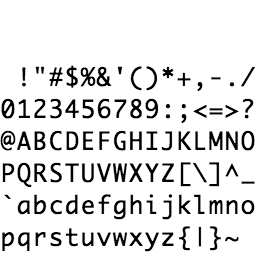
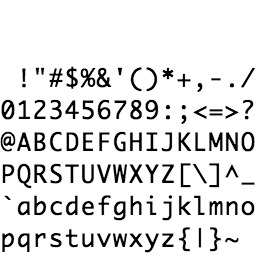
update chars.png(white bordered)

diff --git a/images/chars.html b/images/chars.html
@@ -2,13 +2,13 @@
 onload=function(){
   canvas=document.createElement('canvas');
   document.body.innerHTML='';
-  [{w:16,h:32,font:24,wscale:1,col:255,yoffset:-0.1}].forEach(function(info){
+  [{w:16,h:32,font:24,wscale:1,col:255,yoffset:-0.05}].forEach(function(info){
     canvas.width=info.w*16;
     canvas.height=info.h*8;
     g=canvas.getContext('2d');
-    // g.fillStyle='black'
-    // g.fillRect(0,0,canvas.width,canvas.height);
+    g.lineWidth=30;
     g.fillStyle='black'
+    g.strokeStyle='white'
     for(var i=0;i<128;i++){
       g.save();
       var x=i%16,y=(i-x)/16;
@@ -20,14 +20,10 @@ onload=function(){
       g.font=info.font*10+'px Monaco'
       g.textAlign='center'
       g.textBaseline='middle'
+      g.strokeText(String.fromCharCode(i),0,0)
       g.fillText(String.fromCharCode(i),0,0)
       g.restore();
     }
-    data=g.getImageData(0,0,canvas.width,canvas.height);
-    for(var i=0;i<data.data.length;i++){
-      if(i%4!=3)data.data[i]=Math.round(data.data[i]/255*(info.col-1))*255/(info.col-1);
-    }
-    g.putImageData(data,0,0);
     img=new Image();img.src=canvas.toDataURL()
     document.body.appendChild(img);
   });
